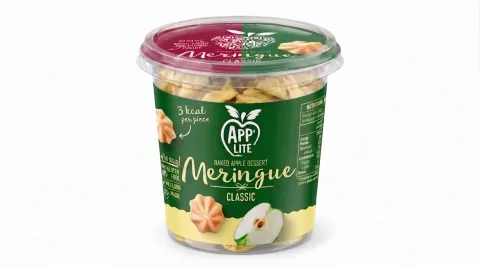
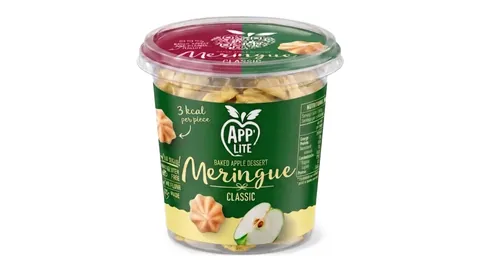
Fix what the design review found on the light shop
The review compared the ported pages with the approved prototype in
three languages at desktop and phone widths and found ten defects; the
fix pass addressed them: the product-page nutrition columns and buy
row, the header on narrow phones, the hero on phones, the catalogue
card footer, the cart summary, product-photo backdrops (white shots
lifted onto the card tint), the stepper pages, and RU/LV strings the
port had left in English.

npm test (189), build (106 pages), check-html (no problems), check-pay
and check-a11y (84 audits, no violations) pass. Strings still English
on RU and LV pages fell from 236 to 206. check-motion's scroll half
still expects the removed pinned apple-to-bar morph and is to be
updated separately.

Claude-Session: https://claude.ai/code/session_011nxTtHpdCFvJaJkjXauCwV

diff --git a/semers/src/styles/site.css b/semers/src/styles/site.css
@@ -53,7 +53,14 @@
 .pc__meta { display: flex; flex-wrap: wrap; gap: 0.4rem; font-size: var(--fs-xs); color: var(--fg-3); }
 .pc__meta span { white-space: nowrap; }
 .pc__meta span:not(:last-child)::after { content: '·'; margin-left: 0.4rem; color: var(--fg-3); }
-.pc__foot { display: flex; align-items: center; justify-content: space-between; flex-wrap: wrap; gap: 0.5rem; margin-top: auto; padding-top: 0.7rem; }
+/*
+ * The price column on the left, the button pinned bottom-right, so every card
+ * in a row ends on the same line whatever the price column holds: a 12-pack's
+ * "bought singly" sum, or no price per 100 g at all (a box whose contents are
+ * not settled reserves the line instead, so its price sits level with the rest).
+ */
+.pc__foot { display: grid; grid-template-columns: minmax(0, 1fr) auto; align-items: end; gap: 0.5rem; margin-top: auto; padding-top: 0.7rem; }
+.pc__unit--none::before { content: '\00a0'; }
 .pc__price { display: flex; flex-wrap: wrap; align-items: baseline; gap: 0 0.5rem; font-family: var(--font-sans); font-weight: 700; font-size: 1.25rem; letter-spacing: 0; font-variant-numeric: tabular-nums; color: var(--cream-0); }
 .pc__price s { color: var(--fg-3); font-weight: 400; font-size: var(--fs-sm); }
 .pc__unit { font-size: var(--fs-xs); color: var(--fg-3); font-weight: 400; white-space: nowrap; font-variant-numeric: tabular-nums; }
@@ -73,6 +80,9 @@
   .pc__hook { display: none; }
   .pc__price { font-size: var(--fs-md); }
   .pc__add { min-height: 2.5rem; padding: 0 0.8rem; font-size: 0.8125rem; }
+  /* Two cards abreast leave no room beside the price: the button goes under it, in every card alike. */
+  .pc__foot { grid-template-columns: minmax(0, 1fr); gap: 0.6rem; }
+  .pc__add { justify-self: start; }
   .badge { top: 0.6rem; left: 0.6rem; }
 }
 
@@ -135,7 +145,7 @@
 /* ---------- Cart drawer ---------- */
 .drawer[hidden] { display: none; }
 .drawer { position: fixed; inset: 0; z-index: 100; }
-.drawer__scrim { position: absolute; inset: 0; background: rgb(20 26 18 / 0.45); backdrop-filter: blur(3px); -webkit-backdrop-filter: blur(3px); animation: fade var(--dur) both; }
+.drawer__scrim { position: absolute; inset: 0; background: rgb(20 26 18 / 0.45); backdrop-filter: blur(3px); animation: fade var(--dur) both; }
 .drawer__panel { position: absolute; top: 0; right: 0; bottom: 0; width: min(29rem, 100vw); background: var(--bg-raised); border-left: 1px solid var(--line); display: grid; grid-template-rows: auto auto 1fr auto; box-shadow: -30px 0 60px -30px rgb(20 26 18 / 0.35); animation: slide-in var(--dur-slow) var(--ease-expo) both; }
 .drawer__head { display: flex; align-items: center; justify-content: space-between; padding: 1.1rem var(--sp-5); border-bottom: 1px solid var(--line); }
 .drawer__head h2 { font-size: var(--fs-xl); }
@@ -171,11 +181,13 @@
 .drawer__empty[hidden] { display: none; }
 .drawer__foot { padding: 1rem var(--sp-5) calc(1rem + env(safe-area-inset-bottom)); border-top: 1px solid var(--line); display: grid; gap: 0.6rem; background: var(--bg-raised); }
 .drawer__row { display: flex; justify-content: space-between; align-items: baseline; font-size: var(--fs-lg); font-weight: 700; color: var(--cream-0); }
+/* Safari before 18 reads only the prefixed property; see Header.astro for why it sits apart. */
+@supports (-webkit-backdrop-filter: none) { .drawer__scrim { -webkit-backdrop-filter: blur(3px); } .sticky-buy { -webkit-backdrop-filter: blur(14px); } }
 @keyframes slide-in { from { transform: translateX(100%); } to { transform: none; } }
 @keyframes fade { from { opacity: 0; } to { opacity: 1; } }
 
 /* ---------- Sticky buy bar ---------- */
-.sticky-buy { position: fixed; left: 0; right: 0; bottom: 0; z-index: 40; background: rgb(251 249 244 / 0.94); backdrop-filter: blur(14px); -webkit-backdrop-filter: blur(14px); border-top: 1px solid var(--line); transform: translateY(110%); visibility: hidden; transition: transform var(--dur) var(--ease-expo), visibility 0s linear var(--dur); padding-bottom: env(safe-area-inset-bottom); }
+.sticky-buy { position: fixed; left: 0; right: 0; bottom: 0; z-index: 40; background: rgb(251 249 244 / 0.94); backdrop-filter: blur(14px); border-top: 1px solid var(--line); transform: translateY(110%); visibility: hidden; transition: transform var(--dur) var(--ease-expo), visibility 0s linear var(--dur); padding-bottom: env(safe-area-inset-bottom); }
 .sticky-buy.is-visible { transform: none; visibility: visible; transition-delay: 0s; }
 .has-sticky-buy .ftr { padding-bottom: 4.5rem; }
 .sticky-buy__in { display: flex; align-items: center; gap: 1rem; padding: 0.7rem var(--gutter); }

diff --git a/semers/src/i18n/ui.ts b/semers/src/i18n/ui.ts
@@ -46,6 +46,8 @@ const en = {
   allProducts: (n: number) => `All ${n} ${pick('en-IE', n, { one: 'product', other: 'products' })}`,
   /* Net quantity as the pack states it: "35 g", or "12 × 35 g" for a multi-pack. */
   grams: (g: number) => `${g} g`,
+  /* Energy of one piece, in the unit the label prints: "112 kcal". */
+  kcal: (n: number) => `${n} kcal`,
   packOf: (n: number, g: number) => `${n} × ${g} g`,
   flavoursAria: (n: number, list: string) => `${n} ${pick('en-IE', n, { one: 'flavour', other: 'flavours' })}: ${list}`,
   view: 'View',
@@ -361,6 +363,7 @@ const ru: Partialised = {
   shippingFlat: (rate: string, from: string) => `${rate}, от ${from} бесплатно`,
   allProducts: (n: number) => `Все ${n} ${pick('ru-RU', n, RU_ITEM)}`,
   grams: (g: number) => `${g} г`,
+  kcal: (n: number) => `${n} ккал`,
   packOf: (n: number, g: number) => `${n} × ${g} г`,
   flavoursAria: (n: number, list: string) => `${n} ${pick('ru-RU', n, { one: 'вкус', few: 'вкуса', many: 'вкусов' })}: ${list}`,
   view: 'Смотреть',
@@ -651,6 +654,7 @@ const lv: Partialised = {
   shippingFlat: (rate: string, from: string) => `${rate}; no ${from} — bez maksas`,
   allProducts: (n: number) => `Visas ${n} ${pick('lv-LV', n, LV_ITEM)}`,
   grams: (g: number) => `${g} g`,
+  kcal: (n: number) => `${n} kcal`,
   packOf: (n: number, g: number) => `${n} × ${g} g`,
   flavoursAria: (n: number, list: string) => `${n} ${pick('lv-LV', n, { zero: 'garšu', one: 'garša', other: 'garšas' })}: ${list}`,
   view: 'Skatīt',

diff --git a/semers/src/data/forge.ts b/semers/src/data/forge.ts
@@ -8,9 +8,10 @@
  * pair of point arrays to interpolate — no matching, no path-command algebra,
  * and a shape can be redrawn in any editor without touching the code.
  *
- * Shared between the page and its script so the markup can render the last
- * frame as its static `d`: with no JavaScript, or with reduced motion asked
- * for, the reader still sees the bar rather than an empty box.
+ * The page no longer morphs between them (the light shop has no pinned scroll
+ * effect): it renders the last frame, the bar, as its static `d`. The other
+ * four and the colours are kept so the sequence can be brought back without
+ * redrawing it.
  */
 export const FORGE_SHAPES = [
   /* whole apple, with the dimple at the top */

diff --git a/semers/src/data/images.ts b/semers/src/data/images.ts
@@ -235,6 +235,12 @@ export const IMAGES: Record<string, SiteImage> = {
     fit: 'contain',
     widths: [480, 960, 1448],
   },
+  /*
+   * The meringue and flourless photos below were retouched for the tinted panels: the studio
+   * backdrop was pushed to pure white (the panel multiplies it into its tint, so an off-white
+   * backdrop showed as a pale rectangle), and a stray black mark was taken off the right edge of
+   * the flourless Original. Nothing on the packs themselves was changed.
+   */
   'pack-meringue-classic': {
     local: '/img/pack-meringue-classic.webp',
     alt: "Green tub of App'Lite Classic baked apple dessert meringues, marked 3 kcal per piece",
